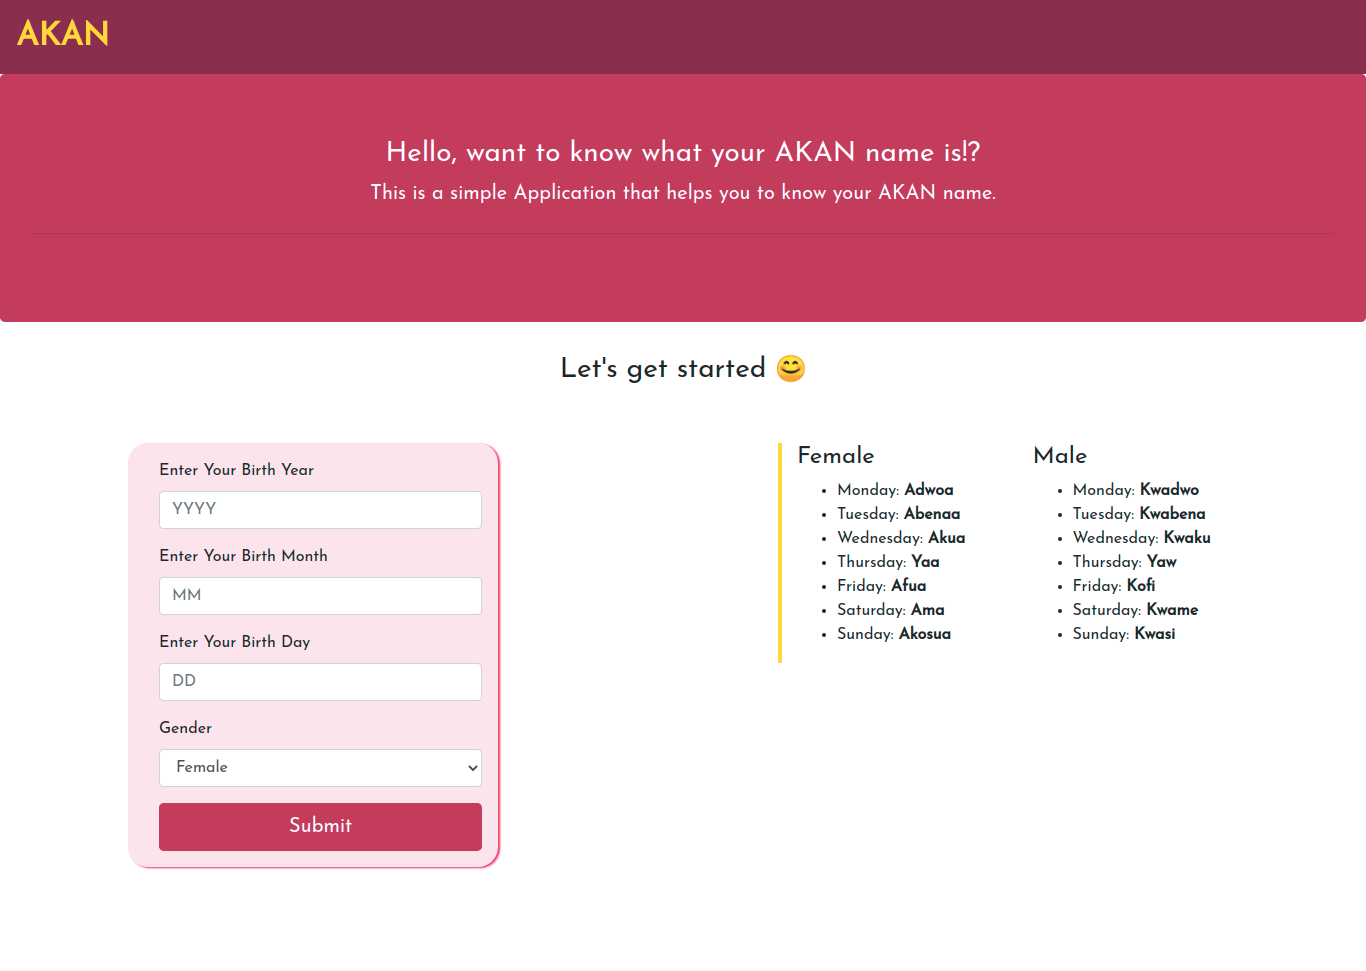
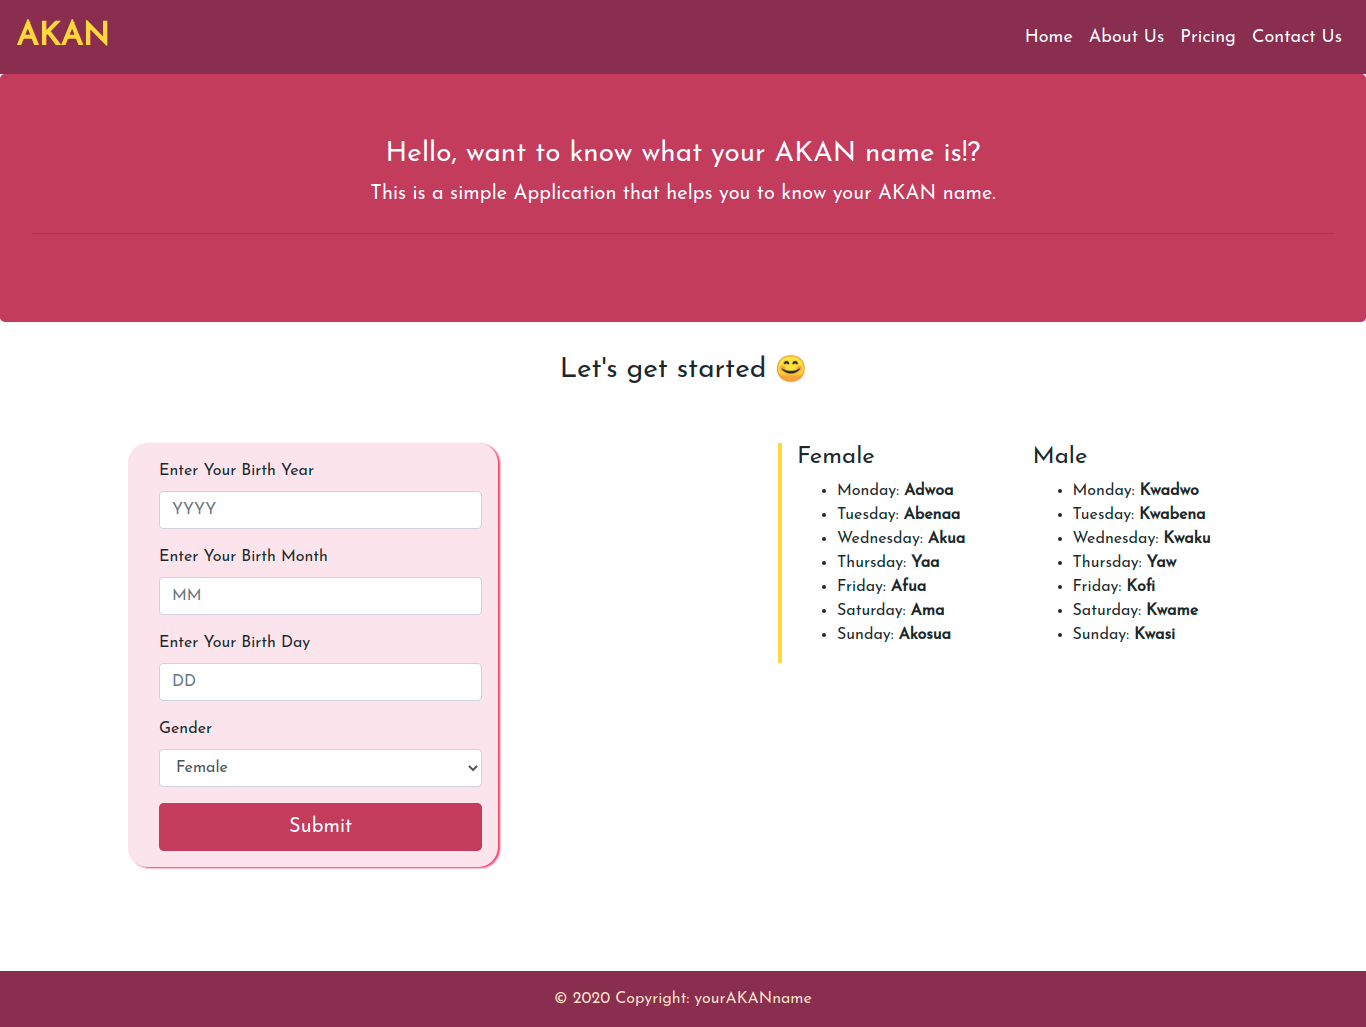
ipdated the nav bar

diff --git a/index.html b/index.html
@@ -11,6 +11,25 @@
 <header>
     <nav class="navbar navbar-expand-lg">
         <a class="navbar-brand" href="#"><span>AKAN</span></a>
+        <button class="navbar-toggler" type="button" data-toggle="collapse" data-target="#navbarNav" aria-controls="navbarNav" aria-expanded="false" aria-label="Toggle navigation">
+            <span class="navbar-toggler-icon"></span>
+          </button>
+          <div class="collapse navbar-collapse" id="navbarNav">
+            <ul class="navbar-nav ml-auto">
+              <li class="nav-item">
+                <a class="nav-link" href="#">Home</a>
+              </li>
+              <li class="nav-item">
+                <a class="nav-link" href="#">About Us</a>
+              </li>
+              <li class="nav-item">
+                <a class="nav-link" href="#">Pricing</a>
+              </li>
+              <li class="nav-item">
+                <a class="nav-link" href="#">Contact Us</a>
+              </li>
+            </ul>
+          </div>
       </nav>
 </header>
 <body>

diff --git a/css/index.css b/css/index.css
@@ -14,6 +14,9 @@ nav span{
     font-weight: 900;
     font-size: 32px;
 }
+.nav-link:hover{
+    color: #FFD600;
+}
 .jumbotron{
     background-color:#C2185B;
     color:white;
